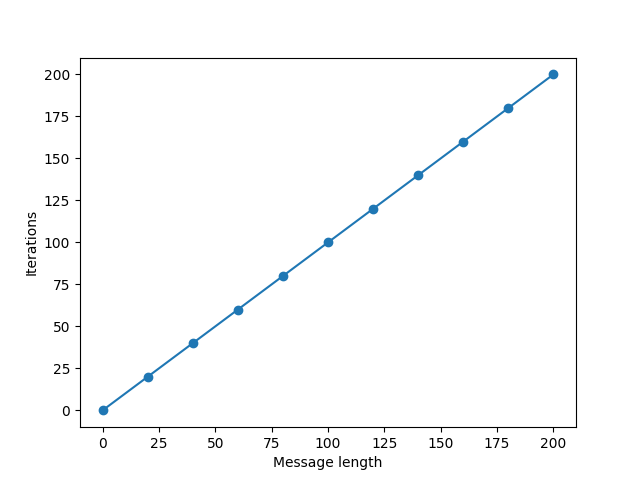
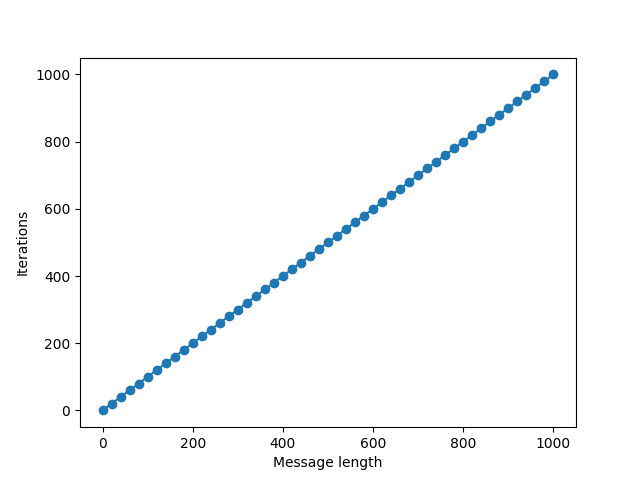
Fixed bug, added command line interface, added input file for testing

diff --git a/SnW.py b/SnW.py
@@ -1,26 +1,29 @@
 
-#run using:
-#python3 SnW.py
-
+"""
+Run using:
+    python(3) SnW.py
+        Run all experiments
+    python(3) SnW.py <infile> <p1> <p2>
+        Run as described in the assignment
+This program uses Python 3, which may be available under either 'python' or 'python3'.
+"""
 
 from random import random
 
 class Message:
     def __init__(self,p,n,data=None):
+        #corruption of data
         self.corrupted=False
         self.prob_failure=p
+
+        #message data
         self.n=n
         self.data=data
-
-##        if self.data:
-##            print(f"DATA FRAME: n={n}, data={data}")
-##        else:
-##            print(f"ACK: n={n}")
         
     def corrupt(self):
+        """ simulate the message potentially getting corrupted """
         if random()<self.prob_failure:
             self.corrupted=True
-            #print("corrupted")
 
 #sender class
 class Sender:
@@ -43,16 +46,21 @@ class Sender:
         return self.data_index==len(self.data)
 
     def start_timer(self):
+        """ turn timer on """
         self.timer=True
     def stop_timer(self):
+        """ turn timer off """
         self.timer=False
     def check_timer(self):
-        """ return whether the timer is on and has reached the threshold """
+        """
+        return whether the timer is both on and has reached the threshold
+        because this program does not actually use timings, there is no actual threshold
+        """
         return self.timer
 
 
     def handle(self,msg=None):
-        """ handle incoming ACK """
+        """ handle incoming ACK messages """
         if msg and not msg.corrupted and msg.n==self.expected_n:
             #succesful acknowledgement
 
@@ -67,13 +75,14 @@ class Sender:
                 self.start_timer()
                 return self.create_frame(self.expected_n)
 
-        
+        #no valid ACK received; check timer
         elif self.check_timer() and not self.done(): #at this point check_timer is always true - we use a fake timer
-            return self.create_frame(self.expected_n)
+            return self.create_frame(self.expected_n) #re-send data
         
-        return None
+        return None #send nothing
     
     def create_frame(self,n):
+        """ create frame message """
         return Message(self.prob_send_fail,n,self.data[self.data_index])
 
 class Receiver:
@@ -87,7 +96,6 @@ class Receiver:
         #parity bit for error detection
         self.expected_n=0
 
-    
     def handle(self,frame):
         """
         handle incoming frame
@@ -135,12 +143,13 @@ def send(data,prob_send_fail,prob_ack_fail):
         #receive ack; create new frame if applicable
         frame=sender.handle(ack)
         
-
+        #count iterations (equal to number of frames sent)
         count+=1
 
     #check that received data matches sent data
-    assert DATA==receiver.received
+    assert data==receiver.received
 
+    #return number of iterations
     return count
 
 
@@ -149,107 +158,121 @@ def send(data,prob_send_fail,prob_ack_fail):
 
 if __name__=="__main__":
 
-    #load data from file
-##    with open("input","r") as f:
-##        data=f.read()
-##
-##    data=list(map(int,data.split()))
-    
-    #generate some data
-##    DATA=list("Hello World!")
+    import sys
 
-    #helper function
-    def frange(start=0,stop=None,step=1):
-        """ float range function """
-        if stop==None:
-            stop=start
-            start=0
-        return (start+i*step for i in range(int((stop-start)/step)))
-
-
-    ### Experiment 1
-    print("EX 1")
-    
-    ex1_data={}
-
-    #no errors
-    PROB_ACK_FAIL=0
-    PROB_SEND_FAIL=0
-    
-    #test for various lengths
-    for S in range(0,200+20,20):
-        DATA=list(range(S))
+    print(sys.argv)
+    if len(sys.argv) not in [1,4]: #incorrect usage
+        print("Usage:\n\tpython3 SnW.py\n\t\tRun all experiments\n\tpython3 SnW.py <infile> <p1> <p2>\n\t\tRun as described by assignment")
         
-        ex1_data[S]=send(DATA,PROB_SEND_FAIL,PROB_ACK_FAIL)
+    elif len(sys.argv)==4:
+        _,infile,p1,p2=sys.argv
+        p1,p2=float(p1),float(p2)
 
-    print("Ex 1 done")
+        #load data from file
+        with open(infile,"r") as f:
+            data=f.read()
+        data=[int(i) for i in data.split() if i]
 
-    ### Experiment 2
-    print("EX 2")
+        count=send(data, p1, p2)
+        print(f"Iterations: {count}")
+        if input("Print sent/received data? [y/n]") in "Yy":
+            print("\n".join([str(i) for i in data])) #we know for certain that the input has been received due to the assert statement
+
+    elif len(sys.argv)==1:
+        #run all experiments
     
-    ex2_data={}
+        #helper function
+        def frange(start=0,stop=None,step=1):
+            """ float range function """
+            if stop==None:
+                stop=start
+                start=0
+            return (start+i*step for i in range(int((stop-start)/step)))
 
-    #no errors in ACK
-    PROB_ACK_FAIL=0
 
-    #200 numbers
-    S=200
-    DATA=list(range(S))
+        ### Experiment 1
+        print("EX 1")
+        
+        ex1_data={}
 
-    #average over N readings
-    N2=500#000
+        #no errors
+        PROB_ACK_FAIL=0
+        PROB_SEND_FAIL=0
+        
+        #test for various lengths
+        for S in range(0,1000+20,20):
+            DATA=list(range(S))
+            
+            ex1_data[S]=send(DATA,PROB_SEND_FAIL,PROB_ACK_FAIL)
 
-    #vary frame error probability
-    for PROB_SEND_FAIL in frange(0,1,0.05):
-        print("%.2f"%PROB_SEND_FAIL)
-        #take average of 1000 runs
-        counts=[send(DATA,PROB_SEND_FAIL,PROB_ACK_FAIL) for i in range(N2)]
-        count=sum(counts)/len(counts)
-        ex2_data[PROB_SEND_FAIL]=count
+        print("Ex 1 done")
 
-    print("Ex 2 done")
+        ### Experiment 2
+        print("EX 2")
+        
+        ex2_data={}
 
-    ### Experiment 3
-    print("EX 3")
-    
-    ex3_data={}
+        #no errors in ACK
+        PROB_ACK_FAIL=0
 
-    #100 numbers
-    S=100
-    DATA=list(range(S))
+        #200 numbers
+        S=200
+        DATA=list(range(S))
 
-    #average over N readings
-    N3=100#0
+        #average over N readings
+        N2=500
 
-    #vary frame error probability
-    for P in frange(0,1,0.05):
-        print("%.2f"%P)
-        #take average of 1000 runs
-        counts=[send(DATA,P,P) for i in range(N3)]
-        count=sum(counts)/len(counts)
-        ex3_data[P]=count
+        #vary frame error probability
+        for PROB_SEND_FAIL in frange(0,1,0.05):
+            print("%.2f"%PROB_SEND_FAIL)
+            #take average of 1000 runs
+            counts=[send(DATA,PROB_SEND_FAIL,PROB_ACK_FAIL) for i in range(N2)]
+            count=sum(counts)/len(counts)
+            ex2_data[PROB_SEND_FAIL]=count
 
-    print("Ex 3 done")
+        print("Ex 2 done")
 
-    #print(f"Message length: {len(DATA)}\nIterations: {count}")
+        ### Experiment 3
+        print("EX 3")
+        
+        ex3_data={}
 
-    import matplotlib.pyplot as plt
+        #100 numbers
+        S=100
+        DATA=list(range(S))
 
-    plt.plot(*list(zip(*ex1_data.items())),'-o')
-    plt.xlabel("Message length")
-    plt.ylabel("Iterations")
-    plt.savefig('ex1.png')
-    plt.show()
-    plt.plot(*list(zip(*ex2_data.items())),'-o')
-    plt.xlabel("P1")
-    plt.ylabel(f"Iterations (average of {N2})")
-    plt.savefig('ex2.png')
-    plt.show()
-    plt.plot(*list(zip(*ex3_data.items())),'-o')
-    plt.xlabel("P")
-    plt.ylabel(f"Iterations (average of {N3})")
-    plt.savefig('ex3.png')
-    plt.show()
+        #average over N readings
+        N3=100
+
+        #vary frame error probability
+        for P in frange(0,1,0.05):
+            print("%.2f"%P)
+            #take average of 1000 runs
+            counts=[send(DATA,P,P) for i in range(N3)]
+            count=sum(counts)/len(counts)
+            ex3_data[P]=count
+
+        print("Ex 3 done")
+
+        #print(f"Message length: {len(DATA)}\nIterations: {count}")
+
+        import matplotlib.pyplot as plt
+
+        plt.plot(*list(zip(*ex1_data.items())),'-o')
+        plt.xlabel("Message length")
+        plt.ylabel("Iterations")
+        plt.savefig('ex1.png')
+        plt.show()
+        plt.plot(*list(zip(*ex2_data.items())),'-o')
+        plt.xlabel("P1")
+        plt.ylabel(f"Iterations (average of {N2})")
+        plt.savefig('ex2.png')
+        plt.show()
+        plt.plot(*list(zip(*ex3_data.items())),'-o')
+        plt.xlabel("P")
+        plt.ylabel(f"Iterations (average of {N3})")
+        plt.savefig('ex3.png')
+        plt.show()
 
 
 
